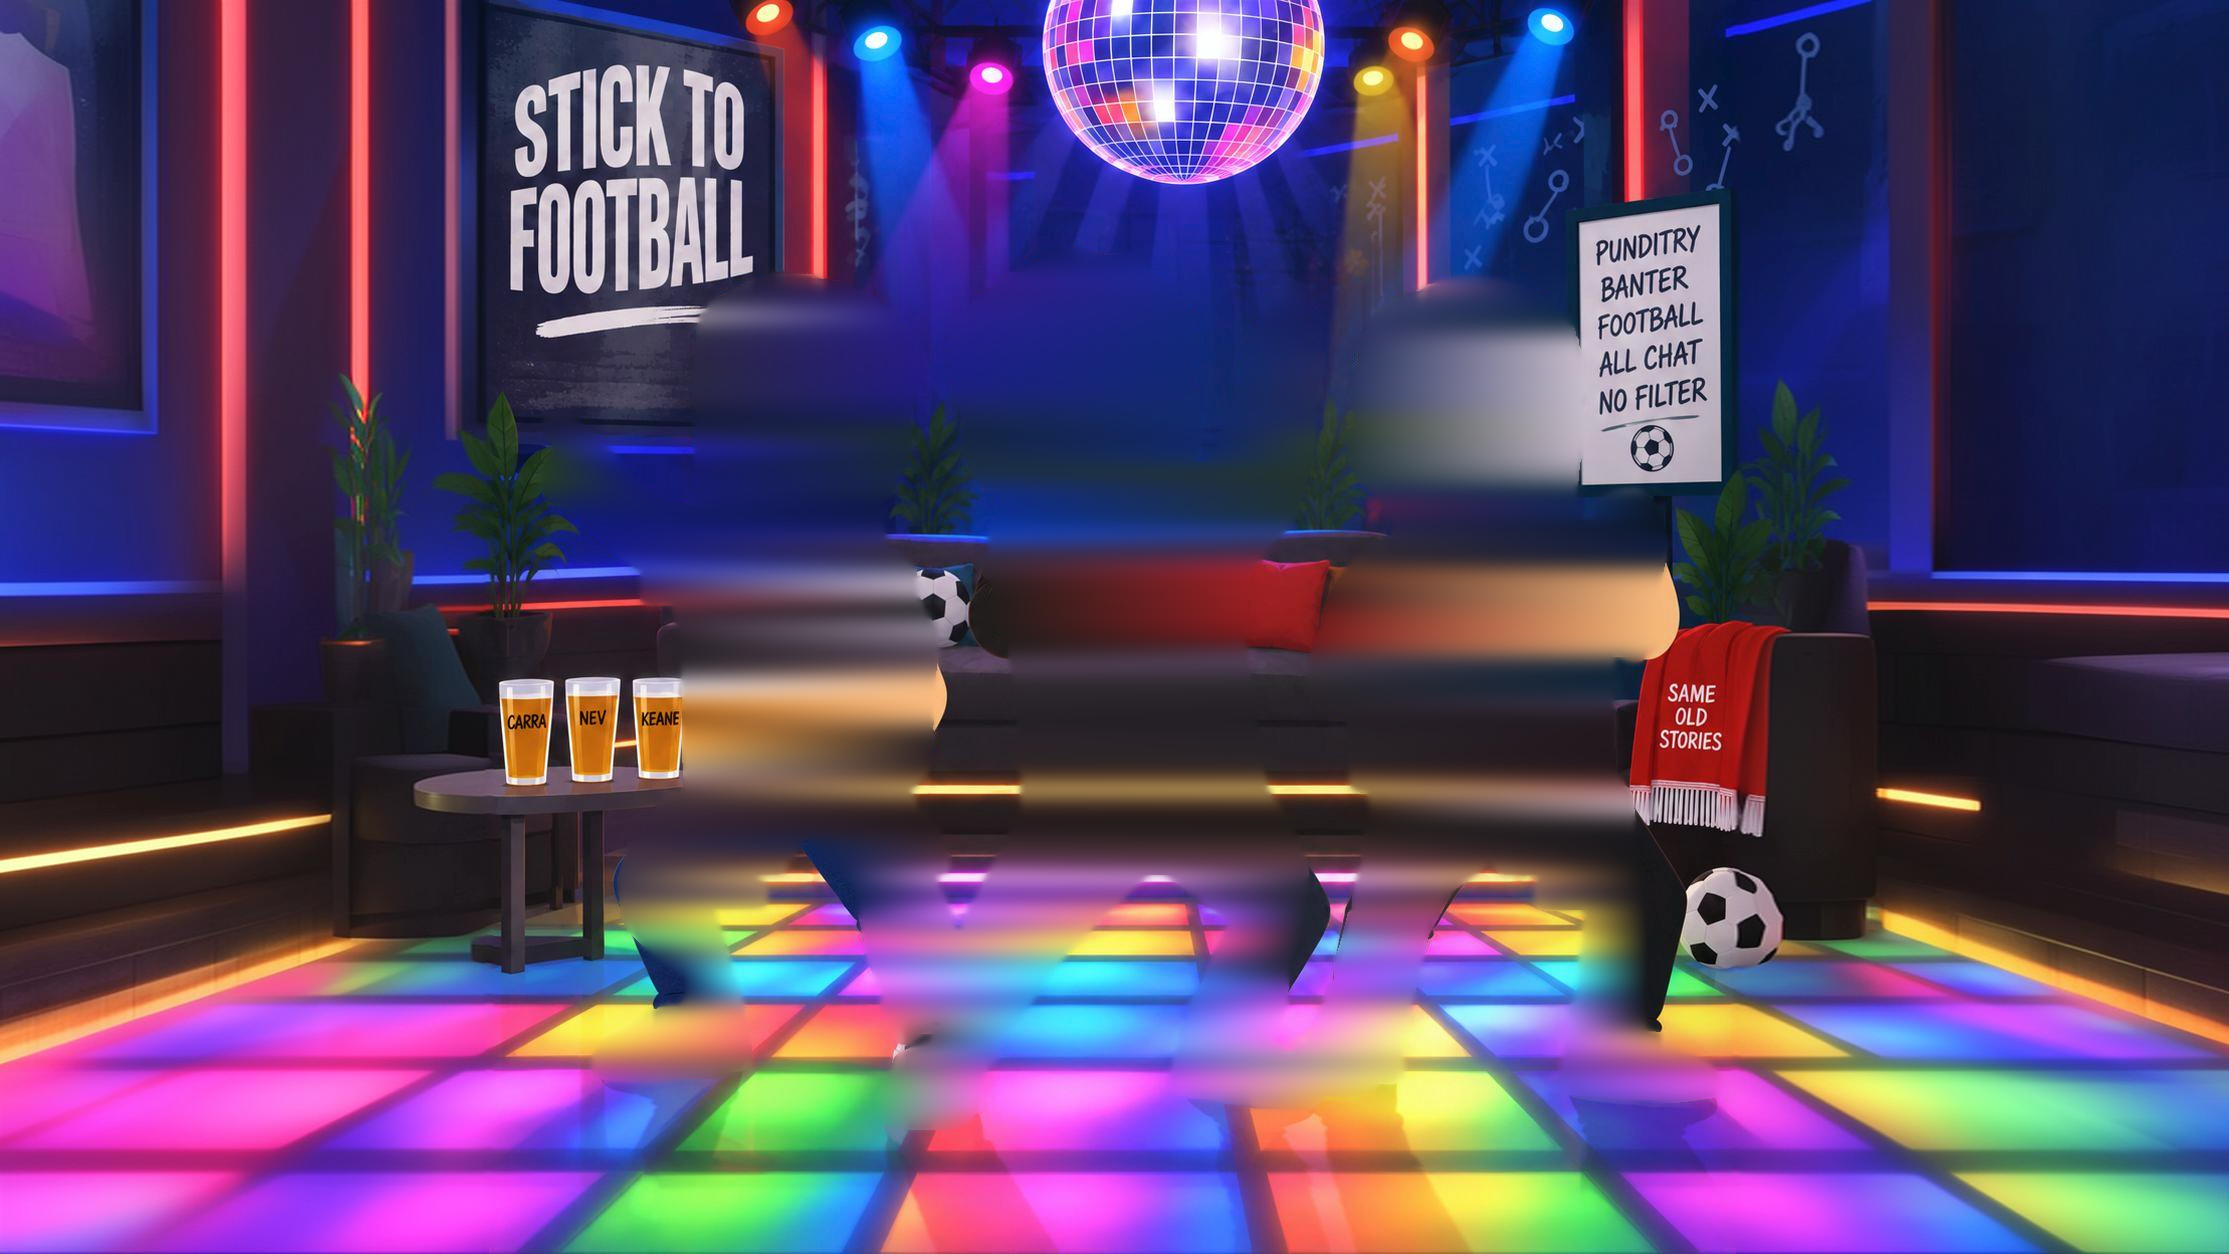
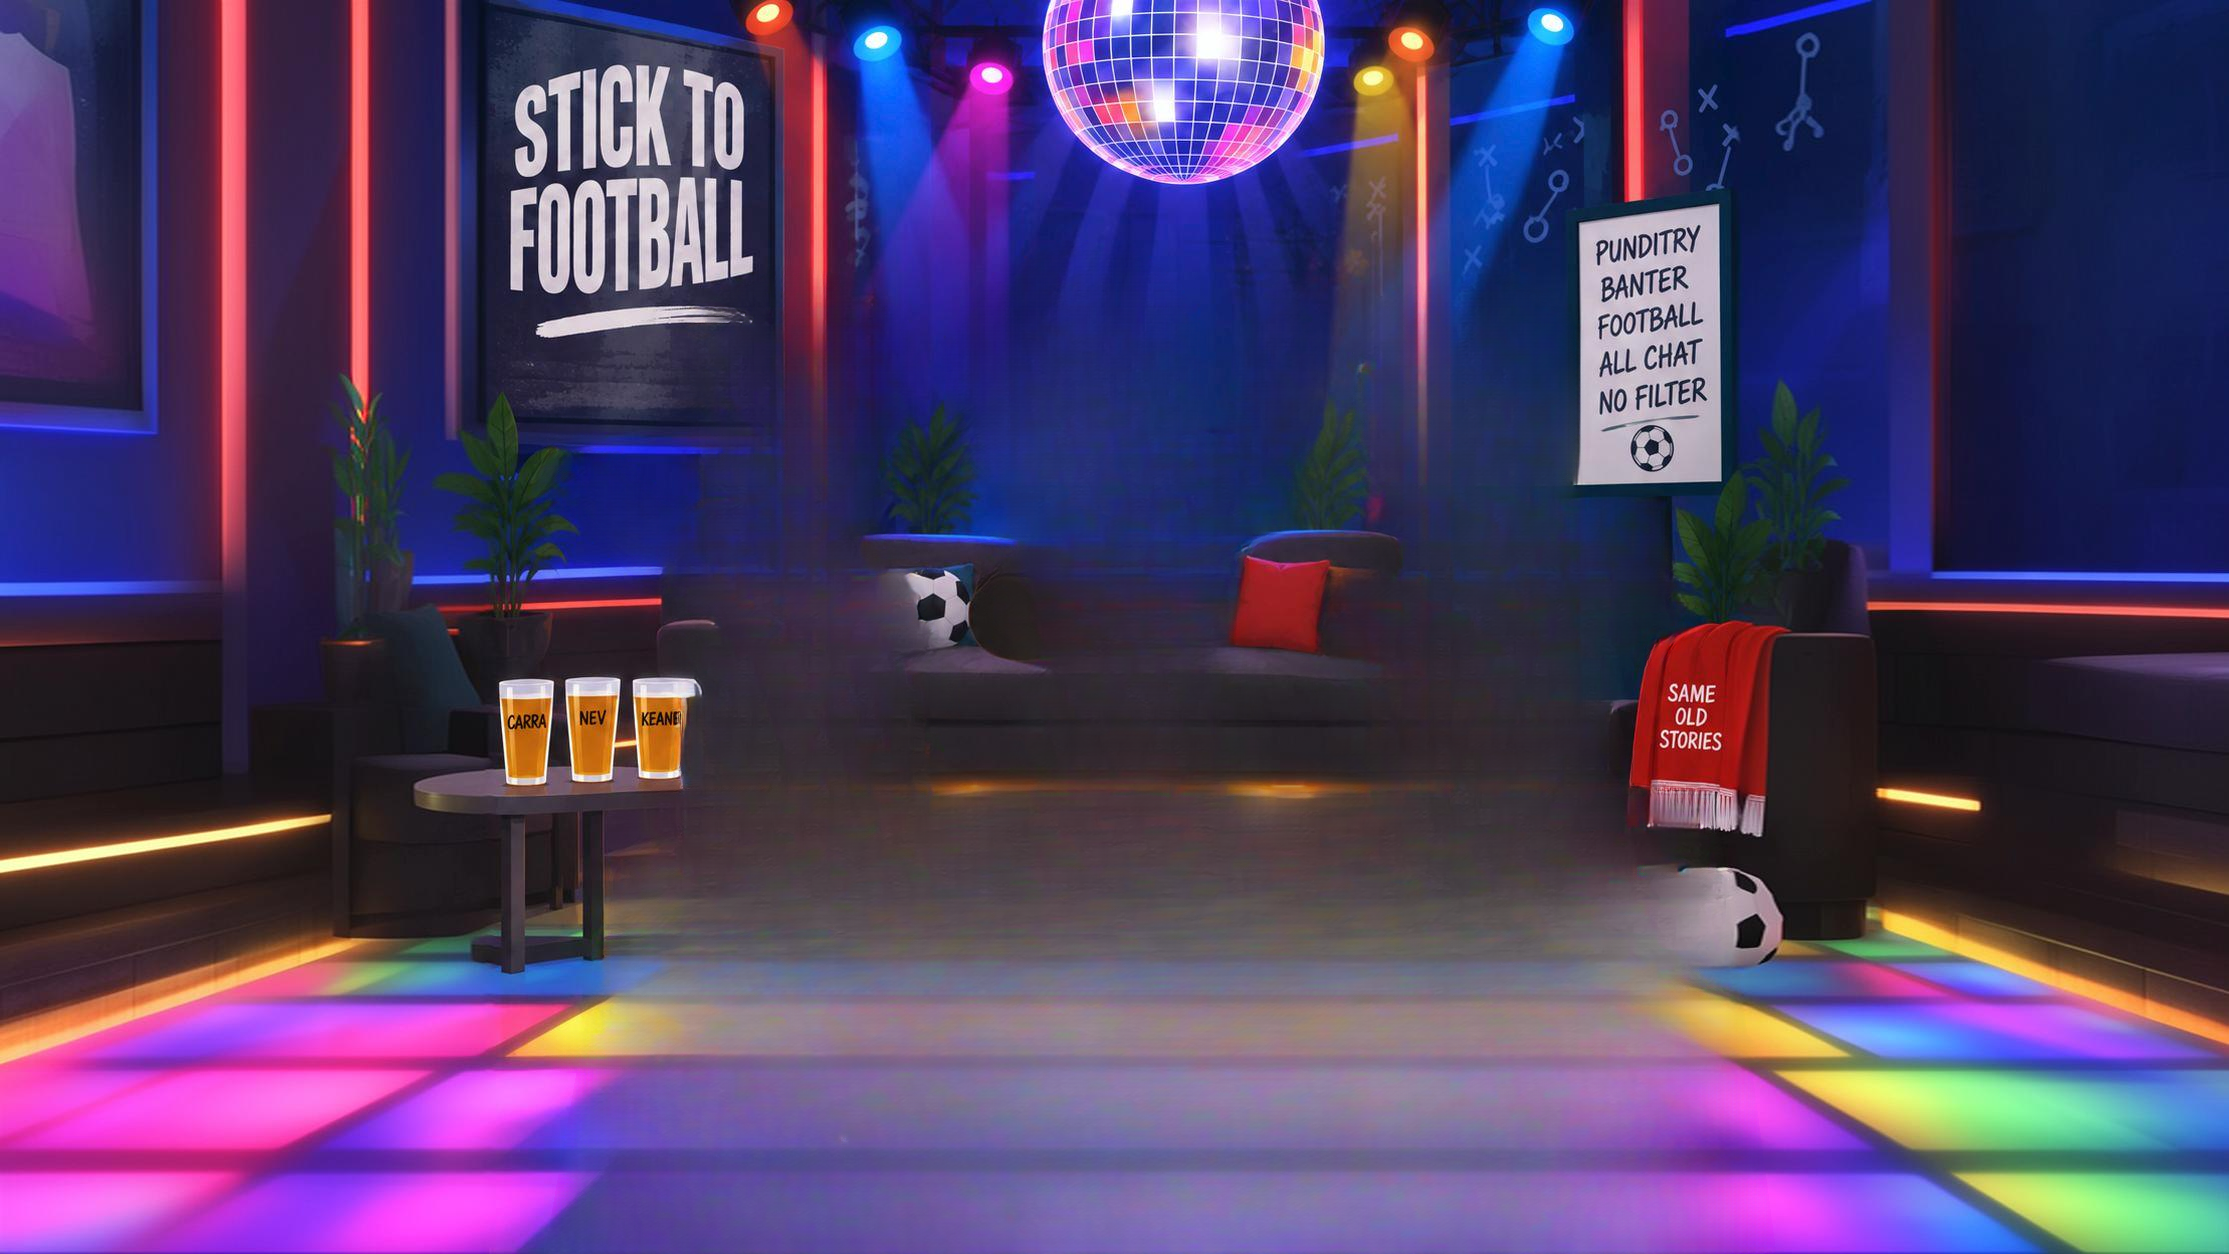
Rebuild the studio backdrop with LaMa inpainting (no pundit ghost)
The backdrop was 18306 with the three pundits smeared out row by row,
leaving a streaky ghost of them behind the characters that showed
whenever they moved. tools/plate.py now fills the hole (pundits, missed
hands, floor shadows) with LaMa at half resolution plus a full-res
refinement pass: sofa, cushions, plants and wall come back cleanly. The
extra blur the renderer applied over that area is reduced to match.

Claude-Session: https://claude.ai/code/session_01Dp2R7D8dpgJrJKu2Z7FzDb

Changed region(s): [[0.2476, 0.2177, 0.8048, 1.0], [0.4334, 0.2177, 0.5262, 0.2799], [0.2476, 0.3421, 0.2786, 0.4043]]

diff --git a/tools/plate.py b/tools/plate.py
@@ -1,31 +1,44 @@
 import os as _os
 ROOT = _os.path.dirname(_os.path.dirname(_os.path.abspath(__file__)))
 ASSETS = _os.path.join(ROOT, 'assets'); MASKS = _os.path.join(ROOT, 'masks'); DATA = _os.path.join(ROOT, 'data'); SOURCE = _os.path.join(ROOT, 'source'); OUTDIR = _os.path.join(ROOT, 'out'); TOOLS = _os.path.join(ROOT, 'tools')
+# Builds the empty studio backdrop (assets/plate_rows.png) from 18306 by removing the three pundits.
+# The hole is filled with LaMa (learned inpainting, runs offline on CPU):
+#   pip install simple-lama-inpainting   (then restore: pip install "numpy>=2"; pip uninstall opencv-python;
+#                                          pip install --force-reinstall --no-deps opencv-contrib-python)
+# LaMa is run at half resolution (it fills large holes with structure there), then refined at full
+# resolution so the filled area has the same sharpness as the rest of the painting.
 import cv2, numpy as np
-img=cv2.imread(SOURCE + '/18306.png').astype(np.float32)
-H,W=img.shape[:2]
-hole=np.zeros((H,W),np.uint8)
-for n in ['carra1','nev1','keane1']: hole|=cv2.imread(f'{MASKS}/maskc_{n}.png',0)
-hole=cv2.dilate(hole,cv2.getStructuringElement(cv2.MORPH_ELLIPSE,(17,17)))
-out=img.copy()
-for y in range(H):
-    row=hole[y]>0
-    if not row.any(): continue
-    xs=np.where(row)[0]
-    # segments
-    br=np.where(np.diff(xs)>1)[0]
-    starts=np.r_[xs[0],xs[br+1]]; ends=np.r_[xs[br],xs[-1]]
-    for a,b in zip(starts,ends):
-        L=img[max(0,y-2):y+3, max(0,a-8):max(1,a-1)].reshape(-1,3).mean(0) if a>1 else None
-        R=img[max(0,y-2):y+3, b+2:min(W,b+9)].reshape(-1,3).mean(0) if b<W-3 else None
-        if L is None: L=R
-        if R is None: R=L
-        t=np.linspace(0,1,b-a+1)[:,None]
-        out[y,a:b+1]=L*(1-t)+R*t
-# vertical smoothing inside the hole
-sm=cv2.GaussianBlur(out,(0,0),sigmaX=2,sigmaY=9)
-hf=cv2.GaussianBlur(hole.astype(np.float32)/255,(0,0),3)[...,None]
-out=out*(1-hf)+sm*hf
-cv2.imwrite('assets/plate_rows.png',out.astype(np.uint8))
-cv2.imwrite('assets/hole.png',hole)
-cv2.imwrite('plate_prev.jpg',cv2.resize(out.astype(np.uint8),(1280,720)))
+from PIL import Image
+from simple_lama_inpainting import SimpleLama
+img = cv2.imread(SOURCE + '/18306.png')
+H, W = img.shape[:2]
+hole = np.zeros((H, W), np.uint8)
+for n in ['carra1', 'nev1', 'keane1']: hole |= cv2.imread(f'{MASKS}/maskc_{n}.png', 0)
+# the source masks miss a hand or two and the pundits' dark shadows on the floor: add skin-coloured and very
+# dark pixels that touch the pundits (the beers on the side table are kept)
+hsv = cv2.cvtColor(img, cv2.COLOR_BGR2HSV)
+near = cv2.dilate(hole, cv2.getStructuringElement(cv2.MORPH_ELLIPSE, (81, 81))) > 0
+skin = (hsv[..., 0] >= 5) & (hsv[..., 0] <= 22) & (hsv[..., 1] > 70) & (hsv[..., 2] > 150)
+dark = (hsv[..., 2] < 45)
+dark[:760] = False                                            # shadows only on the floor
+cand = ((skin | dark) & near).astype(np.uint8); cand[640:820, :660] = 0   # beers on the side table
+n_, lab, st, _ = cv2.connectedComponentsWithStats(cand, 8)
+touch = set(np.unique(lab[(cv2.dilate(hole, np.ones((9, 9), np.uint8)) > 0) & (lab > 0)]))
+for i in range(1, n_):
+    if i in touch and st[i, 4] > 120: hole[lab == i] = 255
+cv2.fillPoly(hole, [np.array([(640, 800), (1700, 800), (1760, 1254), (560, 1254)], np.int32)], 255)  # their floor shadows
+hole = cv2.morphologyEx(hole, cv2.MORPH_CLOSE, cv2.getStructuringElement(cv2.MORPH_ELLIPSE, (25, 25)))
+hole = cv2.dilate(hole, cv2.getStructuringElement(cv2.MORPH_ELLIPSE, (31, 31)))   # outlines, glow and shadows too
+lama = SimpleLama()
+def fill(bgr, m):
+    out = lama(Image.fromarray(cv2.cvtColor(bgr, cv2.COLOR_BGR2RGB)), Image.fromarray(m))
+    return cv2.cvtColor(np.array(out), cv2.COLOR_RGB2BGR)[:bgr.shape[0], :bgr.shape[1]]
+half = fill(cv2.resize(img, (W // 2, H // 2), interpolation=cv2.INTER_AREA), cv2.resize(hole, (W // 2, H // 2), interpolation=cv2.INTER_NEAREST))
+coarse = img.copy(); up = cv2.resize(half, (W, H), interpolation=cv2.INTER_CUBIC)
+coarse[hole > 0] = up[hole > 0]
+fine = fill(coarse, hole)                                                           # full-res refinement pass
+hf = cv2.GaussianBlur((hole > 0).astype(np.float32), (0, 0), 3)[..., None]
+out = (img * (1 - hf) + fine * hf).astype(np.uint8)
+cv2.imwrite(ASSETS + '/plate_rows.png', out)
+cv2.imwrite(ASSETS + '/hole.png', hole)
+print('wrote assets/plate_rows.png')

diff --git a/render/render.py b/render/render.py
@@ -388,8 +388,8 @@ for n_, (ux_, uy_) in {'nev1': (1290, 335), 'nev2': (1082, 300), 'nev5': (1253, 
 
 plate = cv2.imread(f'{A}/plate_rows.png').astype(np.float32)
 hole = cv2.imread(f'{A}/hole.png', 0).astype(np.float32) / 255
-holeb = cv2.GaussianBlur(hole, (0, 0), 25)[..., None]
-BACK = cv2.GaussianBlur(plate, (0, 0), 3.2) * (1 - holeb) + cv2.GaussianBlur(plate, (0, 0), 16) * holeb
+holeb = cv2.GaussianBlur(hole, (0, 0), 25)[..., None]  # (the plate is cleanly inpainted: only a touch softer there)
+BACK = cv2.GaussianBlur(plate, (0, 0), 3.2) * (1 - holeb) + cv2.GaussianBlur(plate, (0, 0), 5) * holeb
 BACK = np.clip(BACK * 0.86, 0, 255).astype(np.float32)
 
 FLOOR_POLY = np.array([(0, 1000), (560, 874), (1800, 868), (2229, 965), (2229, 1254), (0, 1254)], np.float32)
